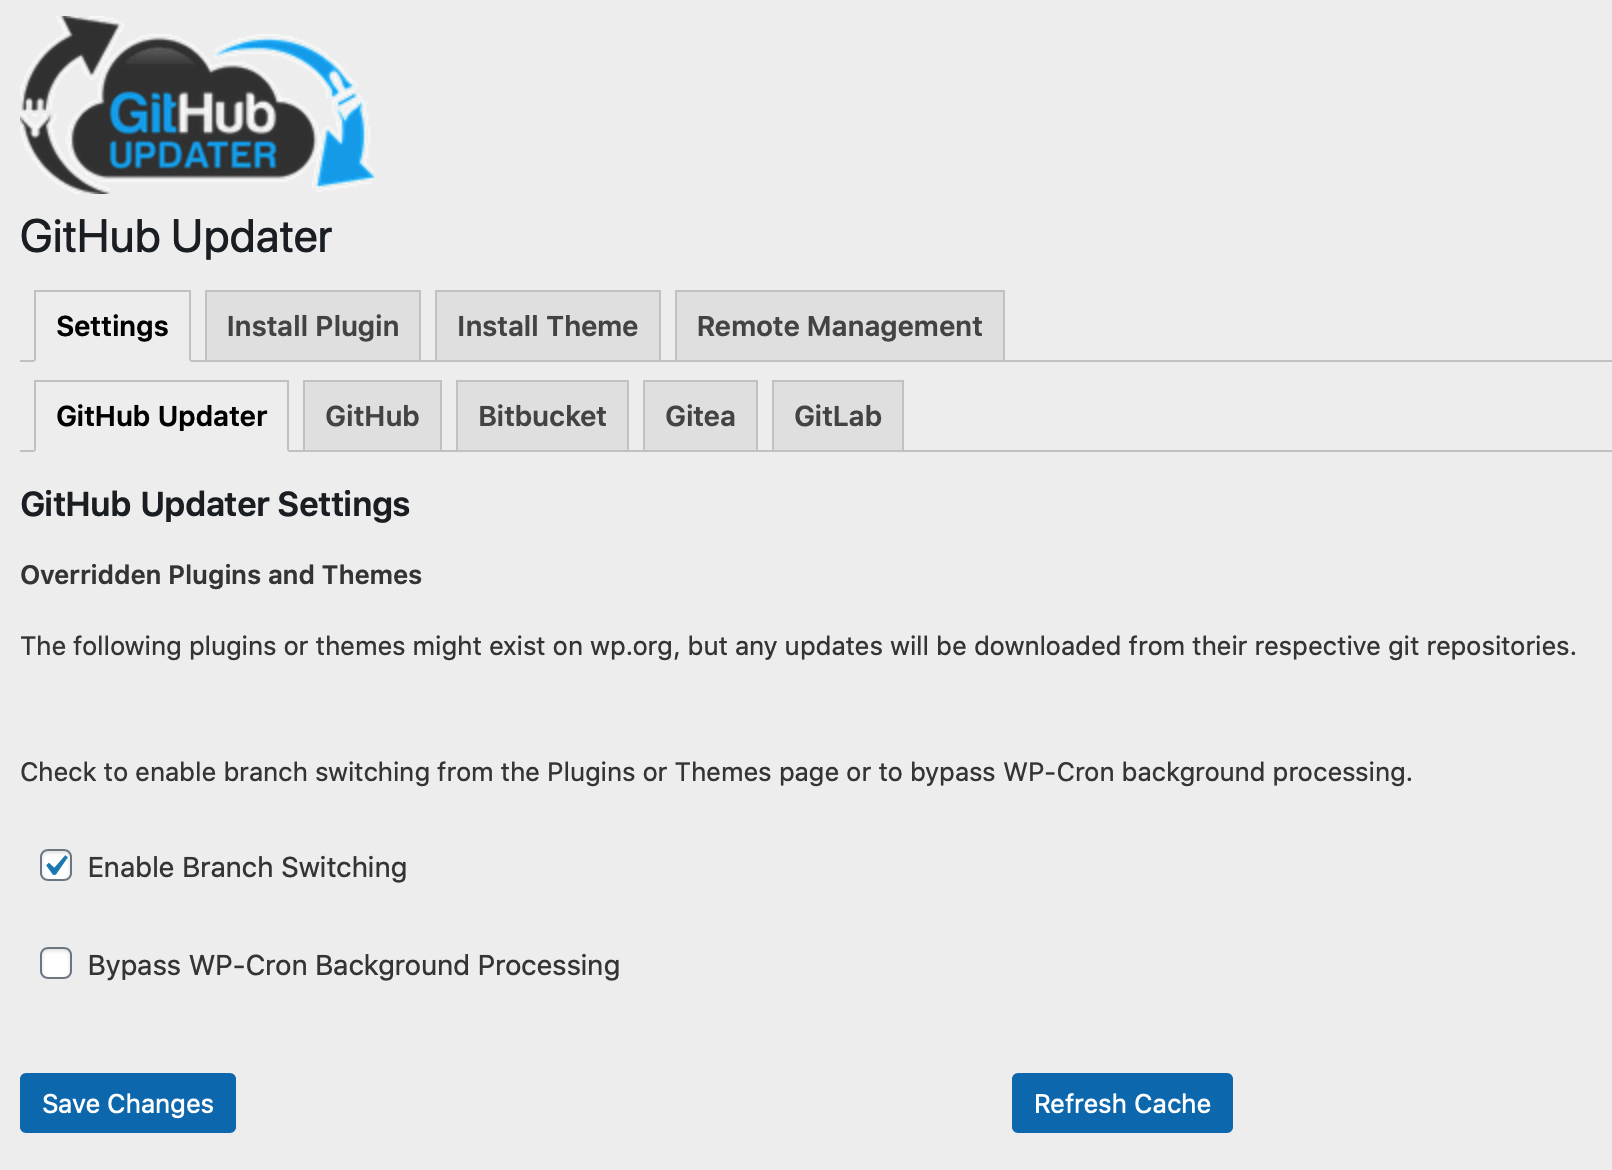
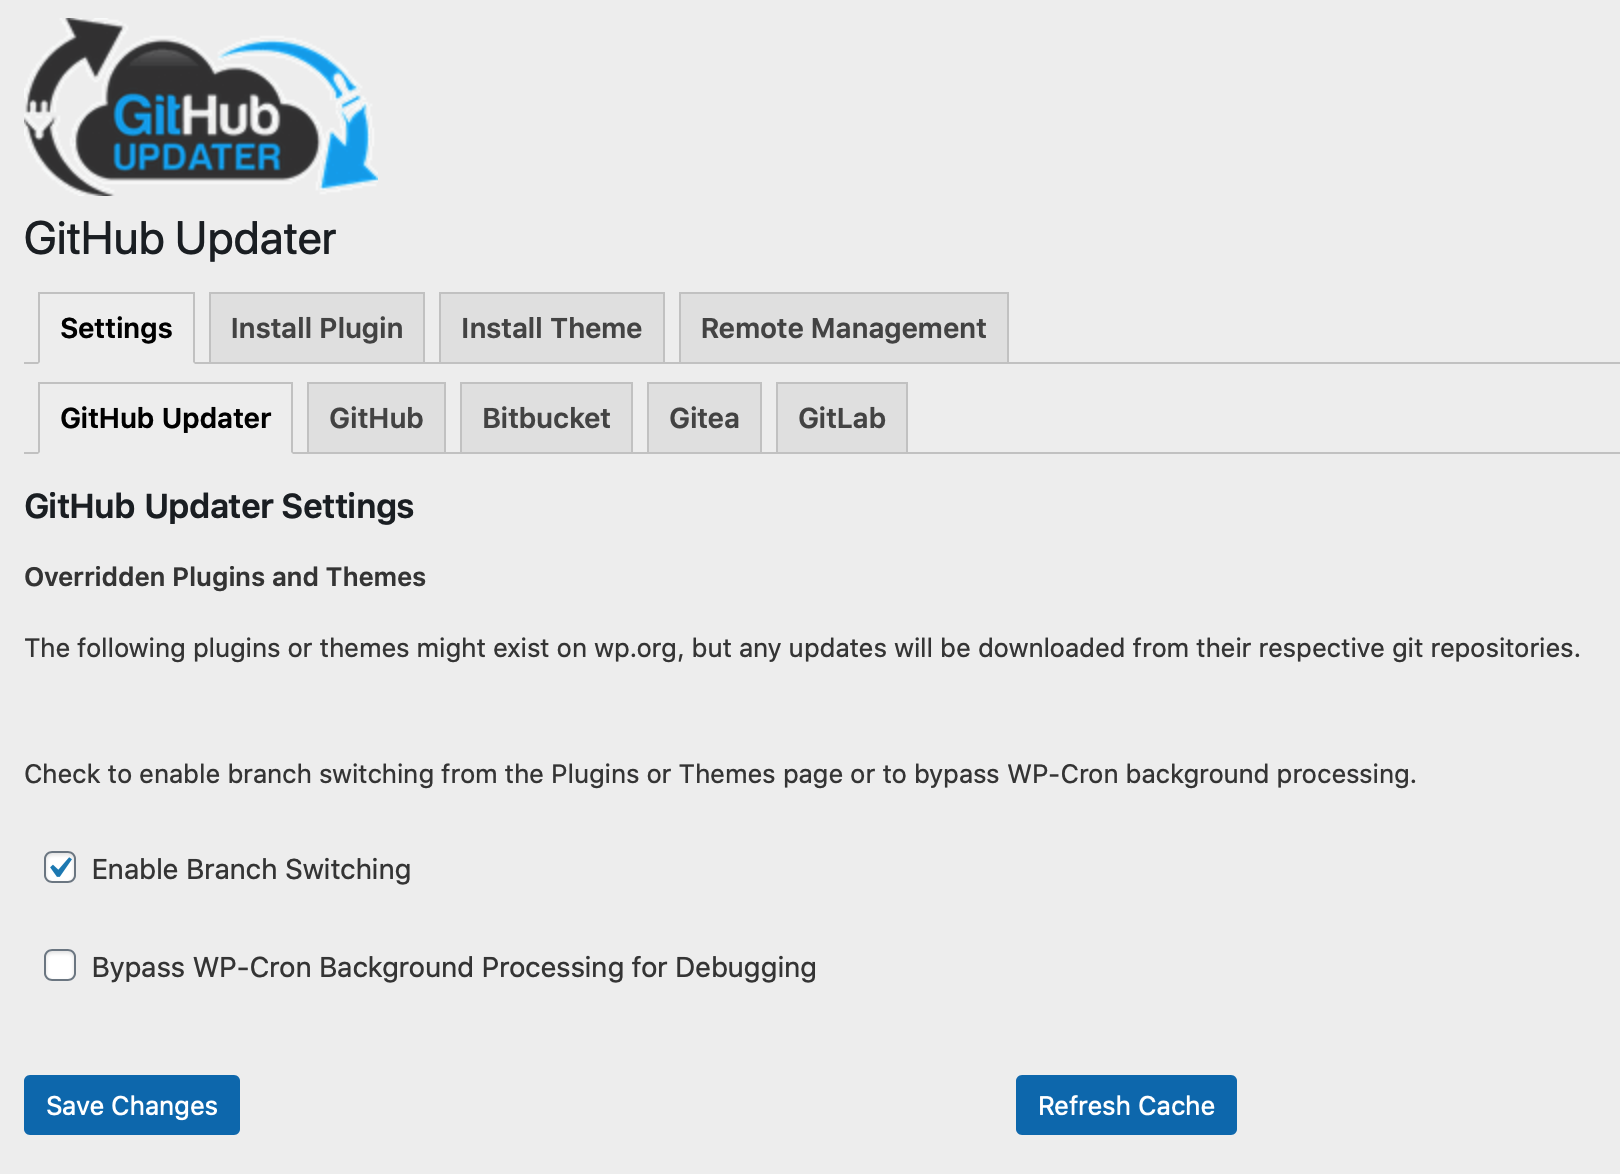
more descriptive checkbox text

diff --git a/src/GitHub_Updater/Settings.php b/src/GitHub_Updater/Settings.php
@@ -351,7 +351,7 @@ class Settings {
 			'github_updater_settings',
 			[
 				'id'    => 'bypass_background_processing',
-				'title' => esc_html__( 'Bypass WP-Cron Background Processing', 'github-updater' ),
+				'title' => esc_html__( 'Bypass WP-Cron Background Processing for Debugging', 'github-updater' ),
 			]
 		);
 
